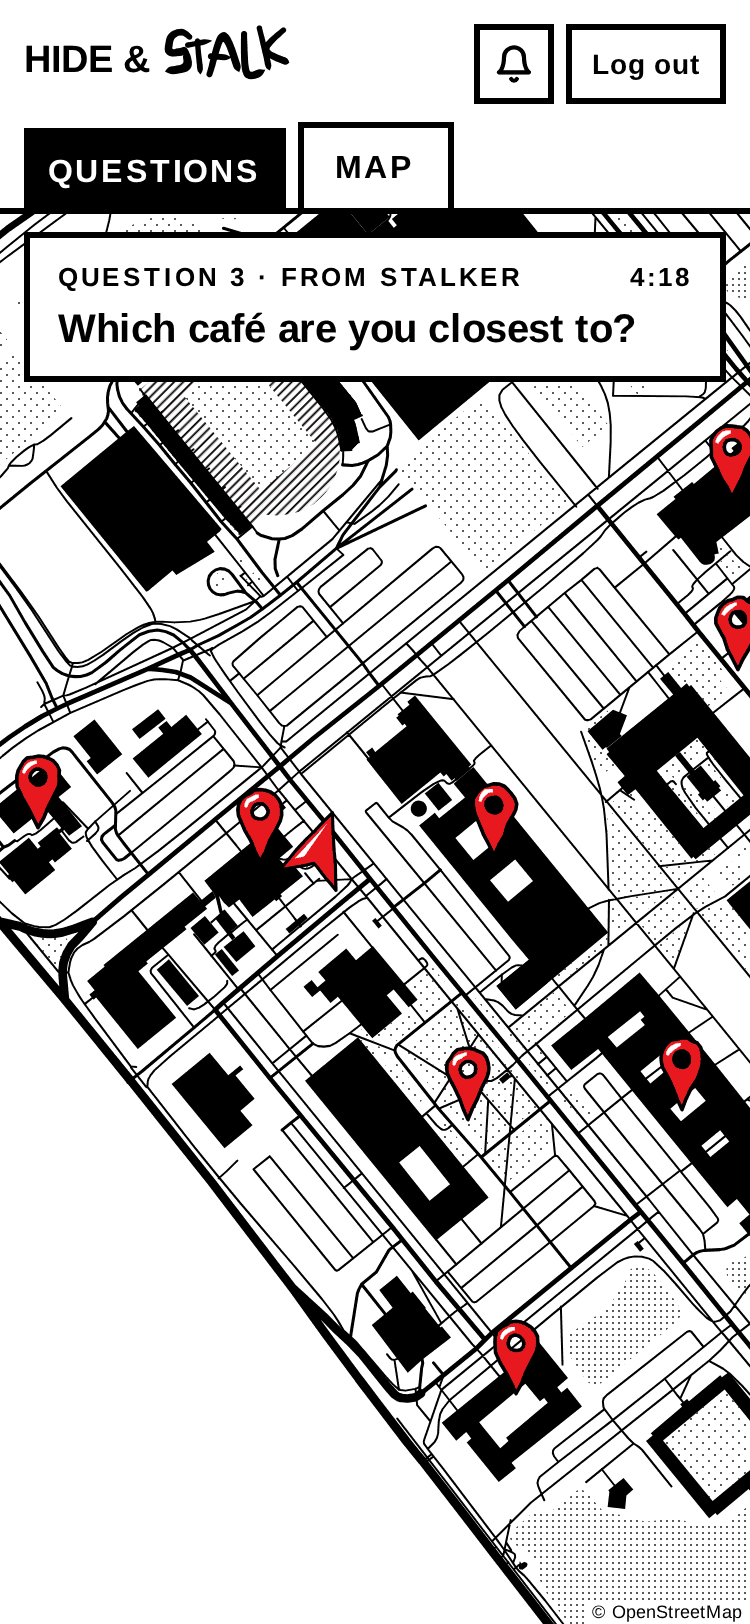
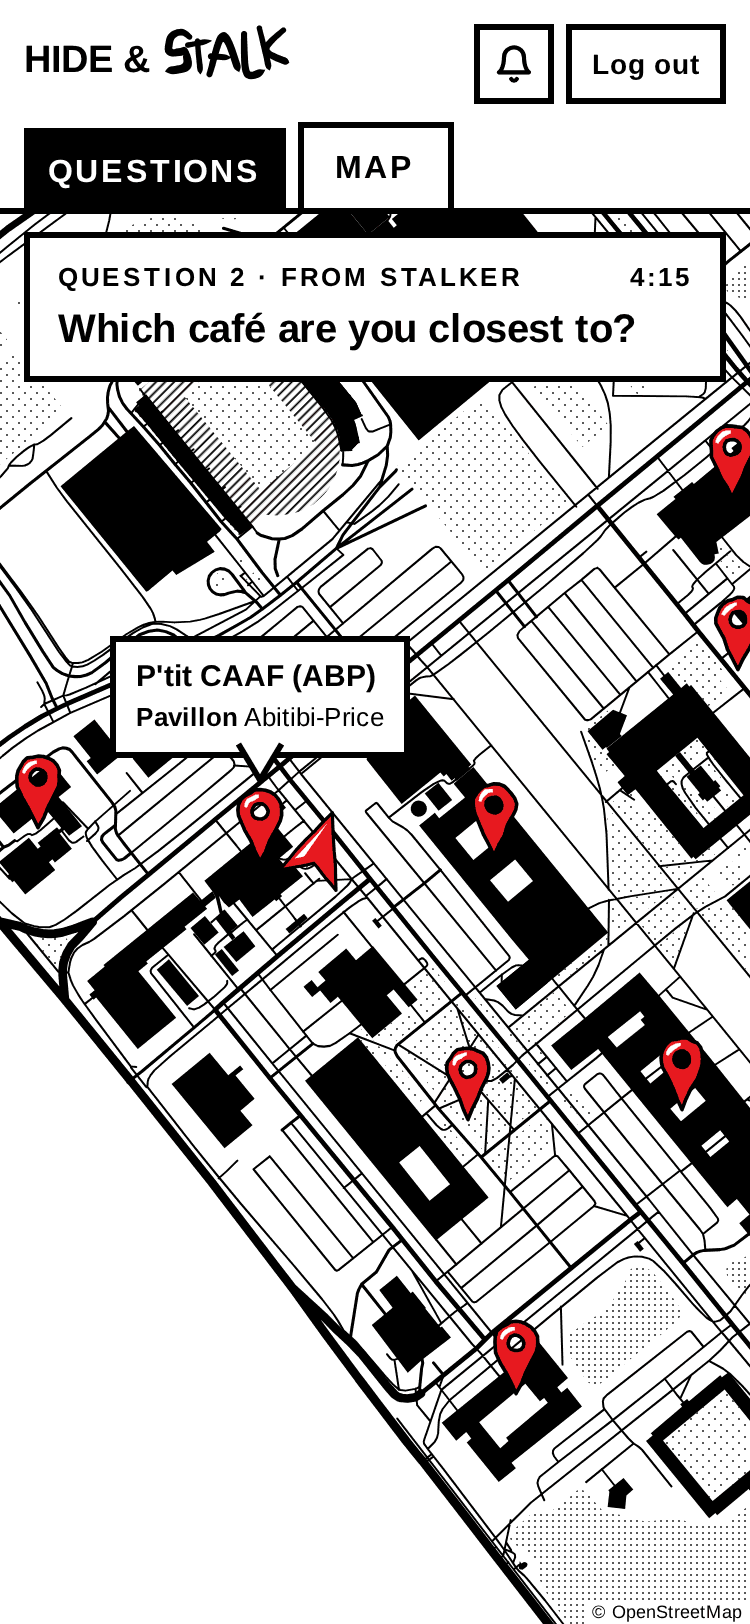
How to play: the demo in the organizer's words, ten steps
The captions are the organizer's, lightly corrected: "a hiding spot",
"ask the hider one of them", taps rather than clicks, and the café is
answered by tapping the nearest pin, whose name pops up (the answer is
then sent from the question, as North was).

- The red arrow is explained as yourself, on every phone.
- The café is question 2 now: HIDER's map says so, its nearest pin
  tapped, and STALKER's phone reads Question 2 of 6.
- New step 9: STALKER's map with both answers in, only a small zone
  left inside the red line, the stalker right beside it.
- The code (now step 10) sits under both answers: North and P'tit Caaf.

Claude-Session: https://claude.ai/code/session_019daRXxJh9MFrrNRpeLucZZ

Changed region(s): [[0.1227, 0.3695, 0.552, 0.4926]]

diff --git a/src/how-to-play/index.html b/src/how-to-play/index.html
@@ -11,7 +11,7 @@
              questions, and the FAQ. The app's rules card links to #rules.
              The screens in img/ are the real app, shot against the fake game
              server with two players, HIDER and STALKER; in design/promo/round-1:
-               node tools/shoot-app.mjs real demo-hiding,demo-cards,demo-picked,demo-line,demo-question,demo-north,demo-cafes,demo-sent,demo-code,q-ns,q-room,q-radius,q-heat,q-closer,q-road,q-velo,q-cafe,q-inside,q-section,q-path,q-walk,q-photo
+               node tools/shoot-app.mjs real demo-hiding,demo-cards,demo-picked,demo-line,demo-question,demo-north,demo-cafes,demo-sent,demo-zone,demo-code,q-ns,q-room,q-radius,q-heat,q-closer,q-road,q-velo,q-cafe,q-inside,q-section,q-path,q-walk,q-photo
              then each shots/real/R-*.png cut to 24 colours, white, black and
              the red kept exact (ImageMagick):
                convert R-x.png -strip -dither None -colors 24 -fuzz 1.5% -fill white -opaque white -fill '#000000' -opaque '#000000' -fill '#E7191F' -opaque '#E7191F' PNG8:x.png
@@ -377,73 +377,80 @@
                 <h2 id="demo-title">Try our demo</h2>
                 <div class="demo" role="region" aria-roledescription="carousel" aria-label="One round, step by step">
                     <ol class="steps" id="steps" tabindex="0">
-                        <li class="step hider" aria-label="Step 1 of 9">
-                            <p class="caption">This is HIDER's phone. HIDER pressed Start, so the game is on! The big timer counts down the 10&nbsp;minutes HIDER has to walk to a hiding spot. Meanwhile, STALKER waits at the start. Lower down is HIDER's code: it comes in at the very end.</p>
+                        <li class="step hider" aria-label="Step 1 of 10">
+                            <p class="caption">This is the HIDER's phone. The timer counts down the 10&nbsp;minutes the hider has to find a hiding spot. Meanwhile, stalkers are waiting.</p>
                             <figure class="device hider">
                                 <figcaption class="whose">Hider's phone</figcaption>
                                 <div class="phone"><img src="img/01-hide.png" width="750" height="1624" alt="Hider's phone: Go hide! 08:40 to hide. Walk, don't run. Stay visible from where people walk: nothing a stalker would have to open, nothing underground. When the timer hits zero, freeze. Below, the tag code." /></div>
                             </figure>
                         </li>
-                        <li class="step" aria-label="Step 2 of 9">
-                            <p class="caption">Now we switch to STALKER's phone. The 10&nbsp;minutes are up: the hunt begins. STALKER gets three questions (the three boxes) and can ask HIDER one of them. Every 5&nbsp;minutes, three new ones come; the big timer counts down to the next. Six questions in all: 30&nbsp;minutes.</p>
+                        <li class="step" aria-label="Step 2 of 10">
+                            <p class="caption">Now we switch to the STALKER's phone. The 10&nbsp;minutes are up: the hunt begins. The stalker gets three questions (the three boxes) and can ask the hider one of them. Every 5&nbsp;minutes, three new questions appear; the timer counts down to the next. Six questions in total, so 30&nbsp;minutes to find the hider.</p>
                             <figure class="device stalker">
                                 <figcaption class="whose">Stalker's phone</figcaption>
                                 <div class="phone"><img src="img/02-cards.png" width="750" height="1624" loading="lazy" alt="Stalker's phone: Question 1 of 6, 04:31 until question 2, PICK JUST ONE written above three cards: Are you north or south of me? Are you closer to the church than I am? Are you within 500 m of me?" /></div>
                             </figure>
                         </li>
-                        <li class="step" aria-label="Step 3 of 9">
-                            <p class="caption">Still on STALKER's phone. STALKER taps “Are you north or south of me?” to pick it: it's now boxed in red. Then STALKER taps Send this question, and it goes to HIDER's phone.</p>
+                        <li class="step" aria-label="Step 3 of 10">
+                            <p class="caption">Still on the STALKER's phone. The stalker taps “Are you north or south of me?” to pick the question: it's now boxed in red. Then the stalker taps “Send this question”, and it is sent to the hider's phone.</p>
                             <figure class="device stalker">
                                 <figcaption class="whose">Stalker's phone</figcaption>
                                 <div class="phone"><img src="img/03-pick.png" width="750" height="1624" loading="lazy" alt="Stalker's phone: the first card, Are you north or south of me?, boxed in red. A black Send this question button, NOT SENT YET written under it." /></div>
                             </figure>
                         </li>
-                        <li class="step hider" aria-label="Step 4 of 9">
-                            <p class="caption">Now we switch to HIDER's phone. To answer the question (in the box at the top), HIDER looks at the map. The red arrow is HIDER. The dashed red line runs through where STALKER is when the question is sent: above it is north, below it is south. HIDER is above the line, so the answer is North.</p>
+                        <li class="step hider" aria-label="Step 4 of 10">
+                            <p class="caption">Now we switch to the HIDER's phone. To answer the question (in the box at the top), the hider looks at the map. The red arrow is the hider's position. The dashed red line runs through where the stalker was when the question was sent: above it is north, below it is south. The hider is above the line, so the answer is “North”.</p>
                             <figure class="device hider">
                                 <figcaption class="whose">Hider's phone</figcaption>
                                 <div class="phone"><img src="img/04-line.png" width="750" height="1624" loading="lazy" alt="Hider's map: Question 1 from STALKER, Are you north or south of me? A red dashed line across the map, NORTH above it, SOUTH below, the hider's red arrow just above it." /></div>
                             </figure>
                         </li>
-                        <li class="step hider" aria-label="Step 5 of 9">
-                            <p class="caption">Still on HIDER's phone, back on the question. HIDER ticks North, then taps Send answer. The hider must answer right away, and truthfully.</p>
+                        <li class="step hider" aria-label="Step 5 of 10">
+                            <p class="caption">Still on the HIDER's phone, back on the question. The hider taps “North”, then taps “Send answer”. The hider must answer right away, and truthfully.</p>
                             <figure class="device hider">
                                 <figcaption class="whose">Hider's phone</figcaption>
                                 <div class="phone"><img src="img/05-answer.png" width="750" height="1624" loading="lazy" alt="Hider's phone: Question 1 from STALKER, 8 seconds ago: Are you north or south of me? North is ticked. A Send answer button." /></div>
                             </figure>
                         </li>
-                        <li class="step" aria-label="Step 6 of 9">
-                            <p class="caption">Back to STALKER's phone, on the map: the whole campus. The answer is North, so everything south of the line is ruled out, and the app blacks it out. The red line goes around what's left: HIDER is somewhere in there. The red arrow is STALKER. The hider never shows up on the stalkers' map.</p>
+                        <li class="step" aria-label="Step 6 of 10">
+                            <p class="caption">Back to the STALKER's phone. On the map, we see the whole campus. The answer was “North”, so everything south of the line is ruled out, and the app blacks it out. The red line goes around what's left: the hider is somewhere in there. Here, the red arrow is the stalker: on every phone, the red arrow is you, the person holding it. Obviously, the hider is not shown on the stalkers' map.</p>
                             <figure class="device stalker">
                                 <figcaption class="whose">Stalker's phone</figcaption>
                                 <div class="phone"><img src="img/06-north.png" width="750" height="1624" loading="lazy" alt="Stalker's map: Question 2 in 4:00. The hider is inside the red line. The whole campus, its southern part blacked out, a red line around the northern part, the stalker's red arrow on the line." /></div>
                             </figure>
                         </li>
-                        <li class="step hider" aria-label="Step 7 of 9">
-                            <p class="caption">We skip ahead to question 3: STALKER sends “Which café are you closest to?” Here we're on HIDER's phone, on the map. Every café is a red pin, and the red arrow is HIDER. The closest pin is the answer.</p>
+                        <li class="step hider" aria-label="Step 7 of 10">
+                            <p class="caption">We skip ahead to question 2. We are on the HIDER's phone. The stalker has sent the question “Which café are you closest to?” On the map, every café is a red pin, and the red arrow is the hider (remember: the red arrow is always you). To answer the question, the hider taps the pin closest to the red arrow, and its name pops up: that café is the answer.</p>
                             <figure class="device hider">
                                 <figcaption class="whose">Hider's phone</figcaption>
-                                <div class="phone"><img src="img/07-cafes.png" width="750" height="1624" loading="lazy" alt="Hider's map: Question 3 from STALKER, Which café are you closest to? Every café pinned in red around the hider's red arrow." /></div>
+                                <div class="phone"><img src="img/07-cafes.png" width="750" height="1624" loading="lazy" alt="Hider's map: Question 2 from STALKER, Which café are you closest to? Every café pinned in red; the pin by the hider's red arrow tapped, its name popped up: P'tit CAAF (ABP), Pavillon Abitibi-Price." /></div>
                             </figure>
                         </li>
-                        <li class="step" aria-label="Step 8 of 9">
-                            <p class="caption">Back to STALKER's phone. HIDER's answer is in, written in red: P'tit Caaf. Now STALKER knows two things: HIDER is north of the line, and closer to P'tit Caaf than to any other café. Time to go and look!</p>
+                        <li class="step" aria-label="Step 8 of 10">
+                            <p class="caption">Back to the STALKER's phone. The hider's answer is in, written in red: “P'tit Caaf”. Now the stalker knows two things: the hider is north of the line, and closer to P'tit Caaf than to any other café.</p>
                             <figure class="device stalker">
                                 <figcaption class="whose">Stalker's phone</figcaption>
-                                <div class="phone"><img src="img/08-cafe.png" width="750" height="1624" loading="lazy" alt="Stalker's phone: Question 3 of 6, 02:03 until question 4. Which café are you closest to? P'TIT CAAF, signed HIDER. The map has been updated with this answer." /></div>
+                                <div class="phone"><img src="img/08-cafe.png" width="750" height="1624" loading="lazy" alt="Stalker's phone: Question 2 of 6, 02:03 until question 3. Which café are you closest to? P'TIT CAAF, signed HIDER. The map has been updated with this answer." /></div>
                             </figure>
                         </li>
-                        <li class="step hider" aria-label="Step 9 of 9">
-                            <p class="caption">Found! This is HIDER's phone again. When STALKER finds HIDER, HIDER shows this code: the black and white square. STALKER scans it with the “Found them? Scan their code” button. The round is over: STALKER wins!</p>
+                        <li class="step" aria-label="Step 9 of 10">
+                            <p class="caption">Still on the STALKER's phone, back on the map. The map updates to display this new information: everything closer to another café than to P'tit Caaf is blacked out too. Only a small zone is left inside the red line: the hider is somewhere in there. The red arrow is the stalker, very close now!</p>
+                            <figure class="device stalker">
+                                <figcaption class="whose">Stalker's phone</figcaption>
+                                <div class="phone"><img src="img/09-zone.png" width="750" height="1624" loading="lazy" alt="Stalker's map: Question 3 in 1:56. The hider is inside the red line. Everything blacked out but a small zone outlined in red, south of the stadium, the stalker's red arrow just beside it." /></div>
+                            </figure>
+                        </li>
+                        <li class="step hider" aria-label="Step 10 of 10">
+                            <p class="caption">This is the HIDER's phone again. When the stalker finds the hider, the hider shows this QR code. The stalker scans it, ending the round. The stalker wins!</p>
                             <figure class="device hider">
                                 <figcaption class="whose">Hider's phone</figcaption>
-                                <div class="phone"><img src="img/09-code.png" width="750" height="1624" loading="lazy" alt="Hider's phone: question 1's answer, North, then the tag code, a QR code. Show this to the stalker." /></div>
+                                <div class="phone"><img src="img/10-code.png" width="750" height="1624" loading="lazy" alt="Hider's phone: the answers so far, question 2 P'TIT CAAF and question 1 NORTH, then the tag code, a QR code." /></div>
                             </figure>
                         </li>
                     </ol>
                     <div class="demo-nav">
                         <button type="button" class="btn" id="demo-back">Back</button>
-                        <span class="where" id="demo-where" aria-live="polite">1 / 9</span>
+                        <span class="where" id="demo-where" aria-live="polite">1 / 10</span>
                         <button type="button" class="btn now" id="demo-next">Next <span class="go" aria-hidden="true"></span></button>
                     </div>
                 </div>
